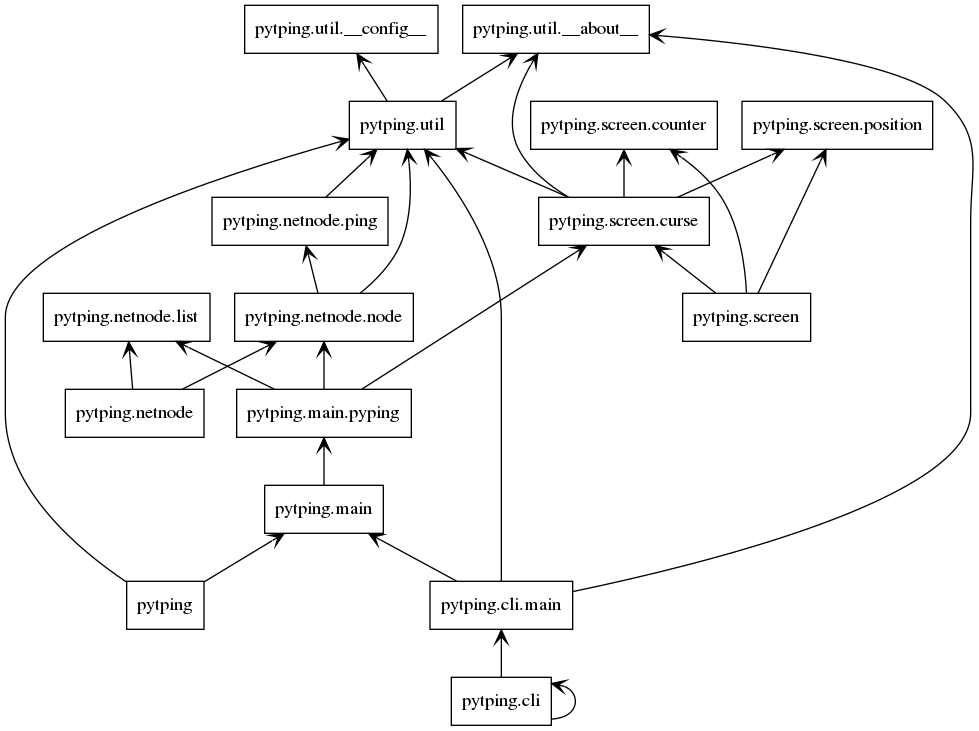
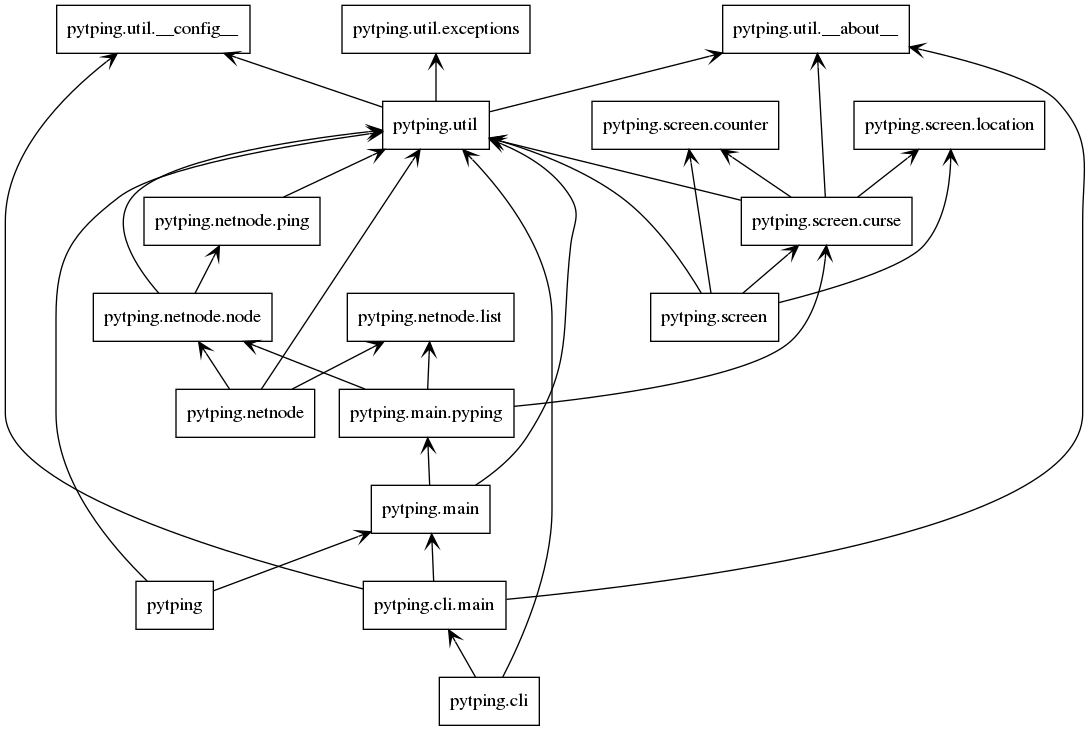
prepare next version

diff --git a/pytping/screen/curse.py b/pytping/screen/curse.py
@@ -15,9 +15,9 @@ export NCURSES_NO_UTF8_ACS=1
 
 import curses
 from pythread import PThread
-from pytping.util import __about__
+from pytping.util.__about__ import __pkg_name__, __version__
 from pytping.util import TEMPLATE, DEFAULT
-from pytping.screen.position import ElementPosition
+from pytping.screen.location import ElementLocation
 from pytping.screen.counter import Counter
 
 
@@ -56,8 +56,8 @@ class ScreenCurses(object):
     def __init__(self, host_list):
         self.__timer = ""
         self.__host_list = host_list
-        self.__count = Counter(3)
-        self.__elemnt_position = ElementPosition()
+        self.__count = Counter(len(TEMPLATE["progress"]) - 1)
+        self.__elemnt_position = ElementLocation()
         self.__mthr = PThread(self.build, DEFAULT["refresh_screen"])
         self.screen = curses.initscr()
         self.screen.immedok(True)
@@ -86,10 +86,12 @@ class ScreenCurses(object):
         box = self.screen.subwin(3, self.width, self.height - 3, 0)
         box.border()
         box.box()
-        txt = "{}({}) | {} {}".format(__about__.__pkg_name__,
-                                      __about__.__version__,
-                                      TEMPLATE["msg"],
-                                      TEMPLATE["progress"][self.__count.value])
+        txt = "{}({}) | {} {}".format(
+            __pkg_name__,
+            __version__,
+            TEMPLATE["msg"],
+            TEMPLATE["progress"][self.__count.value]
+        )
         box.addstr(1, 2, txt)
 
     def build(self):
@@ -110,8 +112,7 @@ class ScreenCurses(object):
         self.screen.border(0)
         self.menubar()
 
-        i = 0
-        for host in self.__host_list:
+        for i, host in enumerate(self.__host_list):
             self.__elemnt_position.current_id = i
 
             pos_x = self.__elemnt_position.column * \
@@ -132,18 +133,17 @@ class ScreenCurses(object):
             except Exception:
                 return
             box.box()
-            box.addstr("Ping")
+            box.addstr(TEMPLATE["box_label"])
             box.addstr(1, 2, host.label)
             box.addstr(1, TEMPLATE["box_width"] - len("  " + host.rtt) - 2,
                        "  " + host.rtt)
             box.addstr(2, 5, host.host)
             if host.isconnected:
                 box.addstr(2, TEMPLATE["box_width"] - 4,
-                           "OK", curses.color_pair(4))
+                           TEMPLATE["node_ok"], curses.color_pair(4))
             else:
                 box.addstr(2, TEMPLATE["box_width"] - 4,
-                           "KO", curses.color_pair(5))
-            i = i + 1
+                           TEMPLATE["node_ko"], curses.color_pair(5))
 
     def run(self):
         """

diff --git a/pytping/util/__about__.py b/pytping/util/__about__.py
@@ -10,45 +10,32 @@ This script is provided in the hope that it will be useful,
 but WITHOUT ANY WARRANTY; without even the implied warranty of
 MERCHANTABILITY or FITNESS FOR A PARTICULAR PURPOSE.
 """
-import json
+from email import message_from_string
 from pkg_resources import get_distribution
 
 
+if __name__ == "__main__":
+    raise Exception("Do not start this script manually !")
+
+
+META_FILES = ["METADATA", "PKG-INFO"]
+
+
+def get_metafile(dist):
+    for meta_file in META_FILES:
+        if dist.has_metadata(meta_file):
+            return meta_file
+    raise Exception("Install the package...")
+
+
 __pkg_name__ = __name__.split(".")[0]
-
-
-try:
-    ABOUT = json.loads(
-        get_distribution(__pkg_name__).get_metadata("metadata.json")
-    )
-    __version__ = ABOUT["version"]
-    __author__ = ABOUT["extensions"]["python.details"]["contacts"][0]["name"]
-    __email__ = ABOUT["extensions"]["python.details"]["contacts"][0]["email"]
-    __url__ = ABOUT["download_url"]
-    __license__ = ABOUT["license"]
-    __description__ = ABOUT["summary"]
-
-except FileNotFoundError:
-    try:
-        PKGINFO = get_distribution(__pkg_name__).get_metadata('METADATA')
-    except FileNotFoundError:
-        PKGINFO = get_distribution(__pkg_name__).get_metadata('PKG-INFO')
-
-    __version__ = get_distribution(__pkg_name__).version
-
-    from email import message_from_string
-    MSG = message_from_string(PKGINFO)
-    for key, value in MSG.items():
-        if key.startswith("Author-email"):
-            __email__ = value
-        elif key.startswith("Author"):
-            __author__ = value
-        elif key.startswith("Download-URL"):
-            __url__ = value
-        elif key.startswith("License"):
-            __license__ = value
-        elif key.startswith("Summary"):
-            __description__ = value
-
-__script__ = 'bin/pyt-ping.py'
-__script_description__ = "Ping tool..."
+META = get_metafile(get_distribution(__pkg_name__))
+META = get_distribution(__pkg_name__).get_metadata(META)
+META = message_from_string(META)
+__version__ = META["Version"]
+__email__ = META["Author-email"]
+__author__ = META["Author"]
+__url__ = META["Download-URL"]
+__license__ = META["License"]
+__description__ = META["Summary"]
+__all__ = ["__version__", "__email__", "__author__", "__url__", "__license__"]

diff --git a/pytping/cli/main.py b/pytping/cli/main.py
@@ -10,17 +10,17 @@
  #    #  #    #     #    #    #
 
 """
-import pathlib
 import argparse
 import os
-from pytping.util import __about__
+from pytping.util.__about__ import __version__
+from pytping.util.__config__ import __script__, __script_description__
 from pytping.main import PythonPing
 
 
 PARSER = argparse.ArgumentParser(
-    prog=pathlib.Path(__file__).name,
+    prog=__script__,
     formatter_class=argparse.RawDescriptionHelpFormatter,
-    description=__about__.__script_description__,
+    description=__script_description__,
     epilog="Enjoy...",
     add_help=False
 )
@@ -36,7 +36,7 @@ OPTION.add_argument(
     '-v',
     '--version',
     action='version',
-    version=__about__.__version__
+    version=__version__
 )
 
 REQUIRED = PARSER.add_argument_group('required arguments')
@@ -56,3 +56,6 @@ def run():
     os.environ["NCURSES_NO_UTF8_ACS"] = "1"
     pyt_ping = PythonPing(args.input)
     pyt_ping.run()
+
+
+__all__ = ["run"]

diff --git a/pytping/util/exceptions.py b/pytping/util/exceptions.py
@@ -1,0 +1,38 @@
+#!/usr/bin/env python3
+# -*- coding: utf-8 -*-
+"""
+
+ ######  #####   #####    ####   #####
+ #       #    #  #    #  #    #  #    #
+ #####   #    #  #    #  #    #  #    #
+ #       #####   #####   #    #  #####
+ #       #   #   #   #   #    #  #   #
+ ######  #    #  #    #   ####   #    #
+
+"""
+
+
+class PytPingError(Exception):
+    """
+    Generic exception for pytping
+    """
+    pass
+
+
+class PytPingPortConfigError(PytPingError):
+    """
+    Error: the port is not validated.
+    """
+    def __init__(self, port):
+        super().__init__("Port \"{}\" not valid!".format(port))
+
+
+__all__ = [
+    'PytPingError',
+    'PytPingPortConfigError'
+]
+
+
+if __name__ == "__main__":
+    import doctest
+    doctest.testmod()

diff --git a/pytping/screen/__init__.py b/pytping/screen/__init__.py
@@ -1,6 +1,15 @@
 #!/usr/bin/env python3
 # -*- coding: utf-8 -*-
-
-from pytping.screen.position import ElementPosition
+"""
+ #####   #####  ######  ####### ####### #     #
+#     # #     # #     # #       #       ##    #
+#       #       #     # #       #       # #   #
+ #####  #       ######  #####   #####   #  #  #
+      # #       #   #   #       #       #   # #
+#     # #     # #    #  #       #       #    ##
+ #####   #####  #     # ####### ####### #     #
+"""
+from pytping.util import *
+from pytping.screen.location import ElementLocation
 from pytping.screen.counter import Counter
 from pytping.screen.curse import ScreenCurses

diff --git a/tests/test_doctest.py b/tests/test_doctest.py
@@ -16,10 +16,10 @@ import pathlib
 import doctest
 import unittest
 import subprocess
-from pytping.util import __about__
+from pytping.util.__about__ import __pkg_name__
 
 
-blacklist = ["__init__.py", "__about__.py", "__config__.py"]
+blacklist = ["__init__.py", "__about__.py", "__config__.py", "__param__.py"]
 
 
 def ch(current_file):
@@ -39,7 +39,7 @@ class RunDocTest(unittest.TestCase):
             self.assertTrue(False)
 
 
-code_folder = '../' + __about__.__pkg_name__ + '/'
+code_folder = '../' + __pkg_name__ + '/'
 path = pathlib.Path(
     pathlib.PurePath(
         pathlib.Path(__file__).resolve().parent, code_folder)

diff --git a/pytping/util/__config__.py b/pytping/util/__config__.py
@@ -18,17 +18,22 @@ DEFAULT = {
     "refresh": 0.8,
     "refresh_screen": 0.8,
     "ICMP": "ICMP",
-    "msg_typeerror": "PingNetworkNode: invalid input type",
     "ping_cmd": "ping -c 1 -w 1 "
 }
 
 TEMPLATE = {
+    "box_label": "Ping",
     "box_width": 30,
     "box_margin_x": 3,
     "box_margin_y": 1,
     "box_height": 4,
     "box_start_x": 5,
     "box_start_y": 5,
+    "node_ok": "OK",
+    "node_ko": "KO",
     "msg": "Press ESC to EXIT",
     "progress": ['-', '\\', '|', '/'],
 }
+
+__script__ = 'bin/pyt-ping.py'
+__script_description__ = "Ping tool..."

diff --git a/pytping/screen/location.py b/pytping/screen/location.py
@@ -19,7 +19,7 @@ def calc_limit(stripe_size, element_size, current_id):
 import numbers
 
 
-class ElementPosition(object):
+class ElementLocation(object):
     """
     Calc element position according to element stripe size and
     stripe size.
@@ -47,7 +47,7 @@ class ElementPosition(object):
       +--------------------------------------------+
 
     Use:
-       >>> a = ElementPosition()
+       >>> a = ElementLocation()
        >>> a.element_size = 3
        >>> a.stripe_size = 11
        >>> a.current_id = 0

diff --git a/pytping/util/__init__.py b/pytping/util/__init__.py
@@ -3,5 +3,17 @@
 """
 util
 """
-from pytping.util.__about__ import __version__, __author__, __license__
+from pytping.util.__about__ import *
+from pytping.util.exceptions import *
 from pytping.util.__config__ import DEFAULT, TEMPLATE
+__all__ = [
+    "__version__",
+    "__email__",
+    "__author__",
+    "__url__",
+    "__license__",
+    "DEFAULT",
+    "TEMPLATE",
+    "PytPingError",
+    "PytPingPortConfigError"
+]

diff --git a/pytping/__init__.py b/pytping/__init__.py
@@ -171,8 +171,7 @@ With 4 network nodes:
 This package is distributed under the [GPLv3 license](./LICENSE)
 
 """
-from pytping.util import __version__, __author__, __license__
-from pytping.util import DEFAULT, TEMPLATE
+from pytping.util import *
 import pytping.main
 import pytping.netnode
 import pytping.screen

diff --git a/pytping/netnode/ping.py b/pytping/netnode/ping.py
@@ -78,7 +78,7 @@ class PingNetworkNode(object):
         if isinstance(port, (int, str)):
             self.__port = port
         else:
-            raise TypeError(DEFAULT["msg_typeerror"])
+            raise PytPingPortConfigError(port)
 
     @property
     def isconnected(self):

diff --git a/pytping/netnode/__init__.py b/pytping/netnode/__init__.py
@@ -3,5 +3,6 @@
 """
 node
 """
+from pytping.util import *
 from pytping.netnode.list import NetworkNodeList
 from pytping.netnode.node import NetworkNode
